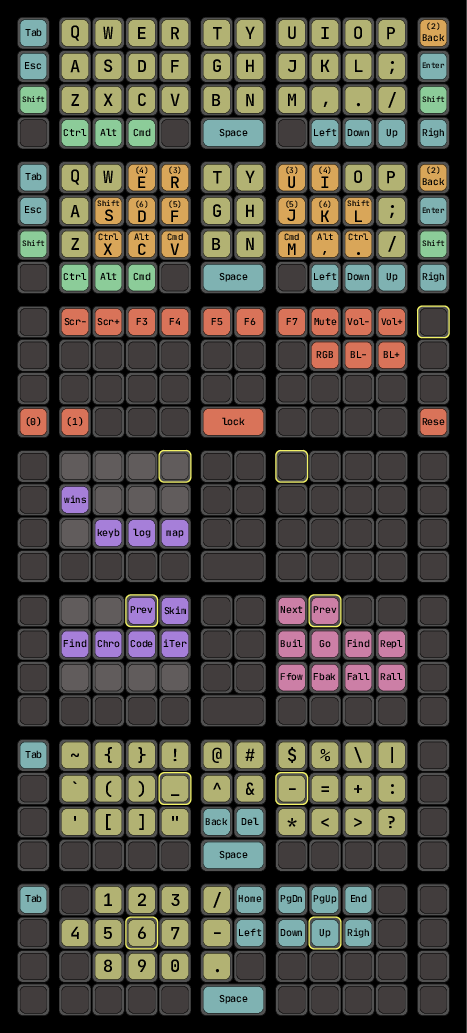
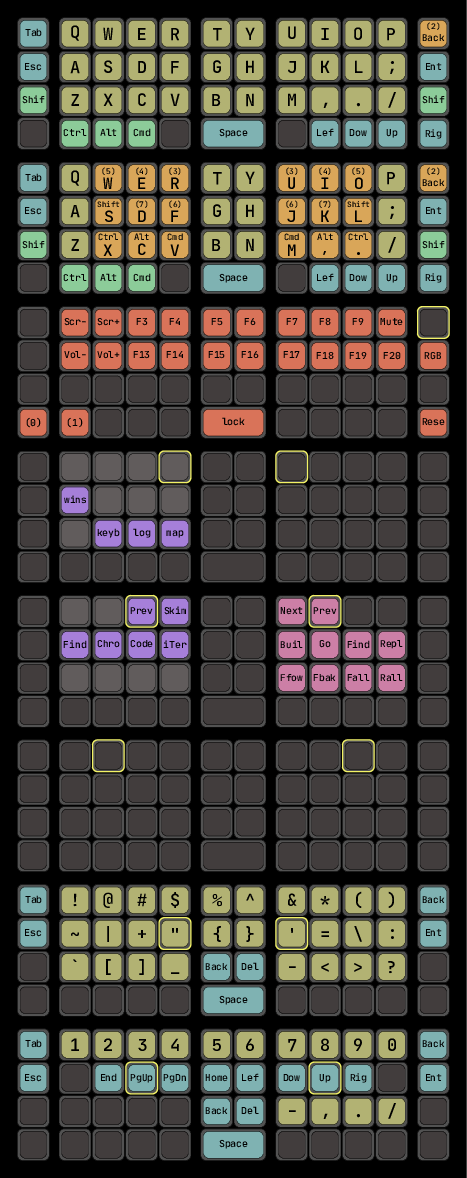
planck new num sym

diff --git a/keyboards/planck/keymaps/syzygies/keymap.c b/keyboards/planck/keymaps/syzygies/keymap.c
@@ -5,51 +5,58 @@
 const uint16_t PROGMEM keymaps[][MATRIX_ROWS][MATRIX_COLS] = {
   // Safety
   [0] = LAYOUT_planck_mit(
-    KC_TAB  , KC_Q       , KC_W         , KC_E         , KC_R         , KC_T        , KC_Y    , KC_U          , KC_I            , KC_O           , KC_P       , LT(2,KC_BSPC) ,
-    KC_ESC  , KC_A       , KC_S         , KC_D         , KC_F         , KC_G        , KC_H    , KC_J          , KC_K            , KC_L           , KC_SCLN    , KC_ENT        ,
-    KC_LSFT , KC_Z       , KC_X         , KC_C         , KC_V         , KC_B        , KC_N    , KC_M          , KC_COMM         , KC_DOT         , KC_SLSH    , KC_RSFT       ,
-    XXXXXXX , KC_LCTL    , KC_LALT      , KC_LGUI      , XXXXXXX      , KC_SPC      , XXXXXXX , KC_LEFT       , KC_DOWN         , KC_UP          , KC_RGHT    
+    KC_TAB  , KC_Q        , KC_W         , KC_E         , KC_R         , KC_T        , KC_Y    , KC_U          , KC_I            , KC_O           , KC_P       , LT(2,KC_BSPC) ,
+    KC_ESC  , KC_A        , KC_S         , KC_D         , KC_F         , KC_G        , KC_H    , KC_J          , KC_K            , KC_L           , KC_SCLN    , KC_ENT        ,
+    KC_LSFT , KC_Z        , KC_X         , KC_C         , KC_V         , KC_B        , KC_N    , KC_M          , KC_COMM         , KC_DOT         , KC_SLSH    , KC_RSFT       ,
+    XXXXXXX , KC_LCTL     , KC_LALT      , KC_LGUI      , XXXXXXX      , KC_SPC      , XXXXXXX , KC_LEFT       , KC_DOWN         , KC_UP          , KC_RGHT    
   ),
   // Base
   [1] = LAYOUT_planck_mit(
-    KC_TAB  , KC_Q       , KC_W         , LT(4,KC_E)   , LT(3,KC_R)   , KC_T        , KC_Y    , LT(3,KC_U)    , LT(4,KC_I)      , KC_O           , KC_P       , LT(2,KC_BSPC) ,
-    KC_ESC  , KC_A       , LSFT_T(KC_S) , LT(6,KC_D)   , LT(5,KC_F)   , KC_G        , KC_H    , LT(5,KC_J)    , LT(6,KC_K)      , RSFT_T(KC_L)   , KC_SCLN    , KC_ENT        ,
-    KC_LSFT , KC_Z       , LCTL_T(KC_X) , LALT_T(KC_C) , LGUI_T(KC_V) , KC_B        , KC_N    , RGUI_T(KC_M)  , RALT_T(KC_COMM) , RCTL_T(KC_DOT) , KC_SLSH    , KC_RSFT       ,
-    XXXXXXX , KC_LCTL    , KC_LALT      , KC_LGUI      , XXXXXXX      , KC_SPC      , XXXXXXX , KC_LEFT       , KC_DOWN         , KC_UP          , KC_RGHT    
+    KC_TAB  , KC_Q        , LT(5,KC_W)   , LT(4,KC_E)   , LT(3,KC_R)   , KC_T        , KC_Y    , LT(3,KC_U)    , LT(4,KC_I)      , LT(5,KC_O)     , KC_P       , LT(2,KC_BSPC) ,
+    KC_ESC  , KC_A        , LSFT_T(KC_S) , LT(7,KC_D)   , LT(6,KC_F)   , KC_G        , KC_H    , LT(6,KC_J)    , LT(7,KC_K)      , RSFT_T(KC_L)   , KC_SCLN    , KC_ENT        ,
+    KC_LSFT , KC_Z        , LCTL_T(KC_X) , LALT_T(KC_C) , LGUI_T(KC_V) , KC_B        , KC_N    , RGUI_T(KC_M)  , RALT_T(KC_COMM) , RCTL_T(KC_DOT) , KC_SLSH    , KC_RSFT       ,
+    XXXXXXX , KC_LCTL     , KC_LALT      , KC_LGUI      , XXXXXXX      , KC_SPC      , XXXXXXX , KC_LEFT       , KC_DOWN         , KC_UP          , KC_RGHT    
   ),
   // Backspace
   [2] = LAYOUT_planck_mit(
-    XXXXXXX , KC_F1      , KC_F2        , KC_F3        , KC_F4        , KC_F5       , KC_F6   , KC_F7         , KC__MUTE        , KC__VOLDOWN    , KC__VOLUP  , XXXXXXX       ,
-    XXXXXXX , XXXXXXX    , XXXXXXX      , XXXXXXX      , XXXXXXX      , XXXXXXX     , XXXXXXX , XXXXXXX       , RGB_TOG         , BL_DEC         , BL_INC     , XXXXXXX       ,
-    XXXXXXX , XXXXXXX    , XXXXXXX      , XXXXXXX      , XXXXXXX      , XXXXXXX     , XXXXXXX , XXXXXXX       , XXXXXXX         , XXXXXXX        , XXXXXXX    , XXXXXXX       ,
-    DF(0)   , DF(1)      , XXXXXXX      , XXXXXXX      , XXXXXXX      , MEH(KC_SPC) , XXXXXXX , XXXXXXX       , XXXXXXX         , XXXXXXX        , RESET      
+    XXXXXXX , KC_F1       , KC_F2        , KC_F3        , KC_F4        , KC_F5       , KC_F6   , KC_F7         , KC_F8           , KC_F9          , KC__MUTE   , XXXXXXX       ,
+    XXXXXXX , KC__VOLDOWN , KC__VOLUP    , KC_F13       , KC_F14       , KC_F15      , KC_F16  , KC_F17        , KC_F18          , KC_F19         , KC_F20     , RGB_TOG       ,
+    XXXXXXX , XXXXXXX     , XXXXXXX      , XXXXXXX      , XXXXXXX      , XXXXXXX     , XXXXXXX , XXXXXXX       , XXXXXXX         , XXXXXXX        , XXXXXXX    , XXXXXXX       ,
+    DF(0)   , DF(1)       , XXXXXXX      , XXXXXXX      , XXXXXXX      , MEH(KC_SPC) , XXXXXXX , XXXXXXX       , XXXXXXX         , XXXXXXX        , RESET      
   ),
   // RU
   [3] = LAYOUT_planck_mit(
-    XXXXXXX , MEH(KC_Q)  , MEH(KC_W)    , MEH(KC_E)    , MEH(KC_R)    , XXXXXXX     , XXXXXXX , XXXXXXX       , XXXXXXX         , XXXXXXX        , XXXXXXX    , XXXXXXX       ,
-    XXXXXXX , MEH(KC_A)  , MEH(KC_S)    , MEH(KC_D)    , MEH(KC_F)    , XXXXXXX     , XXXXXXX , XXXXXXX       , XXXXXXX         , XXXXXXX        , XXXXXXX    , XXXXXXX       ,
-    XXXXXXX , MEH(KC_Z)  , MEH(KC_X)    , MEH(KC_C)    , MEH(KC_V)    , XXXXXXX     , XXXXXXX , XXXXXXX       , XXXXXXX         , XXXXXXX        , XXXXXXX    , XXXXXXX       ,
-    XXXXXXX , XXXXXXX    , XXXXXXX      , XXXXXXX      , XXXXXXX      , XXXXXXX     , XXXXXXX , XXXXXXX       , XXXXXXX         , XXXXXXX        , XXXXXXX    
+    XXXXXXX , MEH(KC_Q)   , MEH(KC_W)    , MEH(KC_E)    , MEH(KC_R)    , XXXXXXX     , XXXXXXX , XXXXXXX       , XXXXXXX         , XXXXXXX        , XXXXXXX    , XXXXXXX       ,
+    XXXXXXX , MEH(KC_A)   , MEH(KC_S)    , MEH(KC_D)    , MEH(KC_F)    , XXXXXXX     , XXXXXXX , XXXXXXX       , XXXXXXX         , XXXXXXX        , XXXXXXX    , XXXXXXX       ,
+    XXXXXXX , MEH(KC_Z)   , MEH(KC_X)    , MEH(KC_C)    , MEH(KC_V)    , XXXXXXX     , XXXXXXX , XXXXXXX       , XXXXXXX         , XXXXXXX        , XXXXXXX    , XXXXXXX       ,
+    XXXXXXX , XXXXXXX     , XXXXXXX      , XXXXXXX      , XXXXXXX      , XXXXXXX     , XXXXXXX , XXXXXXX       , XXXXXXX         , XXXXXXX        , XXXXXXX    
   ),
   // EI
   [4] = LAYOUT_planck_mit(
-    XXXXXXX , HYPR(KC_Q) , HYPR(KC_W)   , HYPR(KC_E)   , HYPR(KC_R)   , XXXXXXX     , XXXXXXX , S(G(KC_RBRC)) , S(G(KC_LBRC))   , XXXXXXX        , XXXXXXX    , XXXXXXX       ,
-    XXXXXXX , HYPR(KC_A) , HYPR(KC_S)   , HYPR(KC_D)   , HYPR(KC_F)   , XXXXXXX     , XXXXXXX , SCMD(KC_B)    , G(KC_P)         , G(KC_F)        , A(G(KC_F)) , XXXXXXX       ,
-    XXXXXXX , HYPR(KC_Z) , HYPR(KC_X)   , HYPR(KC_C)   , HYPR(KC_V)   , XXXXXXX     , XXXXXXX , G(KC_G)       , S(G(KC_G))      , S(G(KC_F))     , S(G(KC_H)) , XXXXXXX       ,
-    XXXXXXX , XXXXXXX    , XXXXXXX      , XXXXXXX      , XXXXXXX      , XXXXXXX     , XXXXXXX , XXXXXXX       , XXXXXXX         , XXXXXXX        , XXXXXXX    
+    XXXXXXX , HYPR(KC_Q)  , HYPR(KC_W)   , HYPR(KC_E)   , HYPR(KC_R)   , XXXXXXX     , XXXXXXX , S(G(KC_RBRC)) , S(G(KC_LBRC))   , XXXXXXX        , XXXXXXX    , XXXXXXX       ,
+    XXXXXXX , HYPR(KC_A)  , HYPR(KC_S)   , HYPR(KC_D)   , HYPR(KC_F)   , XXXXXXX     , XXXXXXX , SCMD(KC_B)    , G(KC_P)         , G(KC_F)        , A(G(KC_F)) , XXXXXXX       ,
+    XXXXXXX , HYPR(KC_Z)  , HYPR(KC_X)   , HYPR(KC_C)   , HYPR(KC_V)   , XXXXXXX     , XXXXXXX , G(KC_G)       , S(G(KC_G))      , S(G(KC_F))     , S(G(KC_H)) , XXXXXXX       ,
+    XXXXXXX , XXXXXXX     , XXXXXXX      , XXXXXXX      , XXXXXXX      , XXXXXXX     , XXXXXXX , XXXXXXX       , XXXXXXX         , XXXXXXX        , XXXXXXX    
+  ),
+  // WO
+  [5] = LAYOUT_planck_mit(
+    XXXXXXX , XXXXXXX     , XXXXXXX      , XXXXXXX      , XXXXXXX      , XXXXXXX     , XXXXXXX , XXXXXXX       , XXXXXXX         , XXXXXXX        , XXXXXXX    , XXXXXXX       ,
+    XXXXXXX , XXXXXXX     , XXXXXXX      , XXXXXXX      , XXXXXXX      , XXXXXXX     , XXXXXXX , XXXXXXX       , XXXXXXX         , XXXXXXX        , XXXXXXX    , XXXXXXX       ,
+    XXXXXXX , XXXXXXX     , XXXXXXX      , XXXXXXX      , XXXXXXX      , XXXXXXX     , XXXXXXX , XXXXXXX       , XXXXXXX         , XXXXXXX        , XXXXXXX    , XXXXXXX       ,
+    XXXXXXX , XXXXXXX     , XXXXXXX      , XXXXXXX      , XXXXXXX      , XXXXXXX     , XXXXXXX , XXXXXXX       , XXXXXXX         , XXXXXXX        , XXXXXXX    
   ),
   // FJ
-  [5] = LAYOUT_planck_mit(
-    KC_TAB  , KC_TILD    , KC_LCBR      , KC_RCBR      , KC_EXLM      , KC_AT       , KC_HASH , KC_DLR        , KC_PERC         , KC_BSLS        , KC_PIPE    , XXXXXXX       ,
-    XXXXXXX , KC_GRV     , KC_LPRN      , KC_RPRN      , KC_UNDS      , KC_CIRC     , KC_AMPR , KC_MINS       , KC_EQL          , KC_PLUS        , KC_COLN    , XXXXXXX       ,
-    XXXXXXX , KC_QUOT    , KC_LBRC      , KC_RBRC      , KC_DQUO      , KC_BSPC     , KC_DEL  , KC_ASTR       , KC_LT           , KC_GT          , KC_QUES    , XXXXXXX       ,
-    XXXXXXX , XXXXXXX    , XXXXXXX      , XXXXXXX      , XXXXXXX      , KC_SPC      , XXXXXXX , XXXXXXX       , XXXXXXX         , XXXXXXX        , XXXXXXX    
+  [6] = LAYOUT_planck_mit(
+    KC_TAB  , KC_EXLM     , KC_AT        , KC_HASH      , KC_DLR       , KC_PERC     , KC_CIRC , KC_AMPR       , KC_ASTR         , KC_LPRN        , KC_RPRN    , KC_BSPC       ,
+    KC_ESC  , KC_TILD     , KC_PIPE      , KC_PLUS      , KC_DQUO      , KC_LCBR     , KC_RCBR , KC_QUOT       , KC_EQL          , KC_BSLS        , KC_COLN    , KC_ENT        ,
+    XXXXXXX , KC_GRV      , KC_LBRC      , KC_RBRC      , KC_UNDS      , KC_BSPC     , KC_DEL  , KC_MINS       , KC_LT           , KC_GT          , KC_QUES    , XXXXXXX       ,
+    XXXXXXX , XXXXXXX     , XXXXXXX      , XXXXXXX      , XXXXXXX      , KC_SPC      , XXXXXXX , XXXXXXX       , XXXXXXX         , XXXXXXX        , XXXXXXX    
   ),
   // DK
-  [6] = LAYOUT_planck_mit(
-    KC_TAB  , XXXXXXX    , KC_1         , KC_2         , KC_3         , KC_SLSH     , KC_HOME , KC_PGDOWN     , KC_PGUP         , KC_END         , XXXXXXX    , XXXXXXX       ,
-    XXXXXXX , KC_4       , KC_5         , KC_6         , KC_7         , KC_MINS     , KC_LEFT , KC_DOWN       , KC_UP           , KC_RGHT        , XXXXXXX    , XXXXXXX       ,
-    XXXXXXX , XXXXXXX    , KC_8         , KC_9         , KC_0         , KC_DOT      , XXXXXXX , XXXXXXX       , XXXXXXX         , XXXXXXX        , XXXXXXX    , XXXXXXX       ,
-    XXXXXXX , XXXXXXX    , XXXXXXX      , XXXXXXX      , XXXXXXX      , KC_SPC      , XXXXXXX , XXXXXXX       , XXXXXXX         , XXXXXXX        , XXXXXXX    
+  [7] = LAYOUT_planck_mit(
+    KC_TAB  , KC_1        , KC_2         , KC_3         , KC_4         , KC_5        , KC_6    , KC_7          , KC_8            , KC_9           , KC_0       , KC_BSPC       ,
+    KC_ESC  , XXXXXXX     , KC_END       , KC_PGUP      , KC_PGDOWN    , KC_HOME     , KC_LEFT , KC_DOWN       , KC_UP           , KC_RGHT        , XXXXXXX    , KC_ENT        ,
+    XXXXXXX , XXXXXXX     , XXXXXXX      , XXXXXXX      , XXXXXXX      , KC_BSPC     , KC_DEL  , KC_MINS       , KC_COMM         , KC_DOT         , KC_SLSH    , XXXXXXX       ,
+    XXXXXXX , XXXXXXX     , XXXXXXX      , XXXXXXX      , XXXXXXX      , KC_SPC      , XXXXXXX , XXXXXXX       , XXXXXXX         , XXXXXXX        , XXXXXXX    
   )
 };
